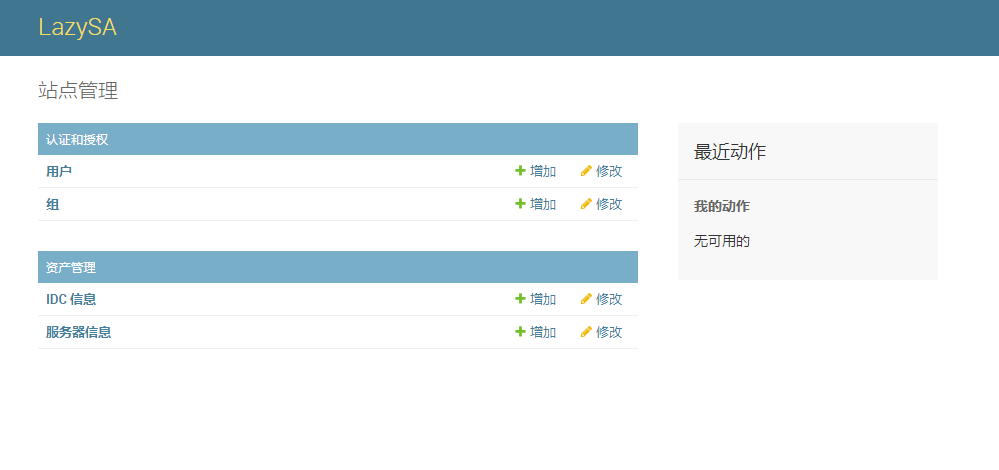
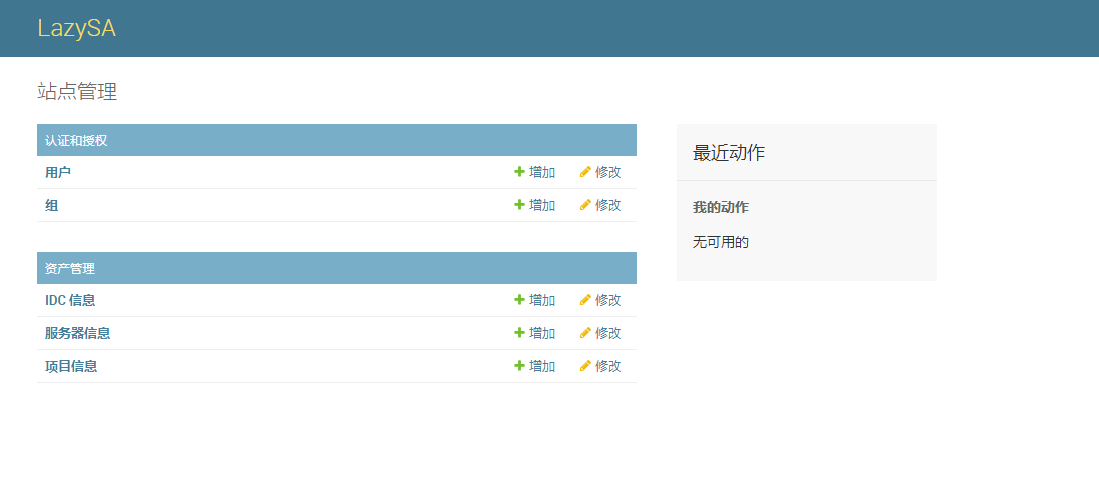
项目说明更新

diff --git a/templates/signin.html b/templates/signin.html
@@ -34,11 +34,9 @@
 </head>
 <body class="page-body login-page">
 
-	
 	<div class="login-container">
-	
 		<div class="row">
-		
+
 			<div class="col-sm-6">
 			
 				<script type="text/javascript">

diff --git a/README.md b/README.md
@@ -14,6 +14,10 @@
 
 * * *
 
+* 程序默认使用key连接服务器执行相关操作(key保存目录为：~/.ssh/id_rsa)
+
+* * *
+
 * 后台管理界面
 
 ![github](/explain/admin01.png)
@@ -33,6 +37,15 @@
 ![github](/explain/admin-host04.png)
 ![github](/explain/admin-host05.png)
 
+
+* 后台项目信息管理
+
+![github](/explain/admin-project01.png)
+![github](/explain/admin-project02.png)
+![github](/explain/admin-project03.png)
+
+> 注意：对应脚本名称一定要保持正常，否则相关功能会无法使用
+
 * 前台登陆
 
 ![github](/explain/login.png)
@@ -50,3 +63,4 @@
 ![github](/explain/order.png)
 ![github](/explain/files.png)
 ![github](/explain/syslog.png)
+
